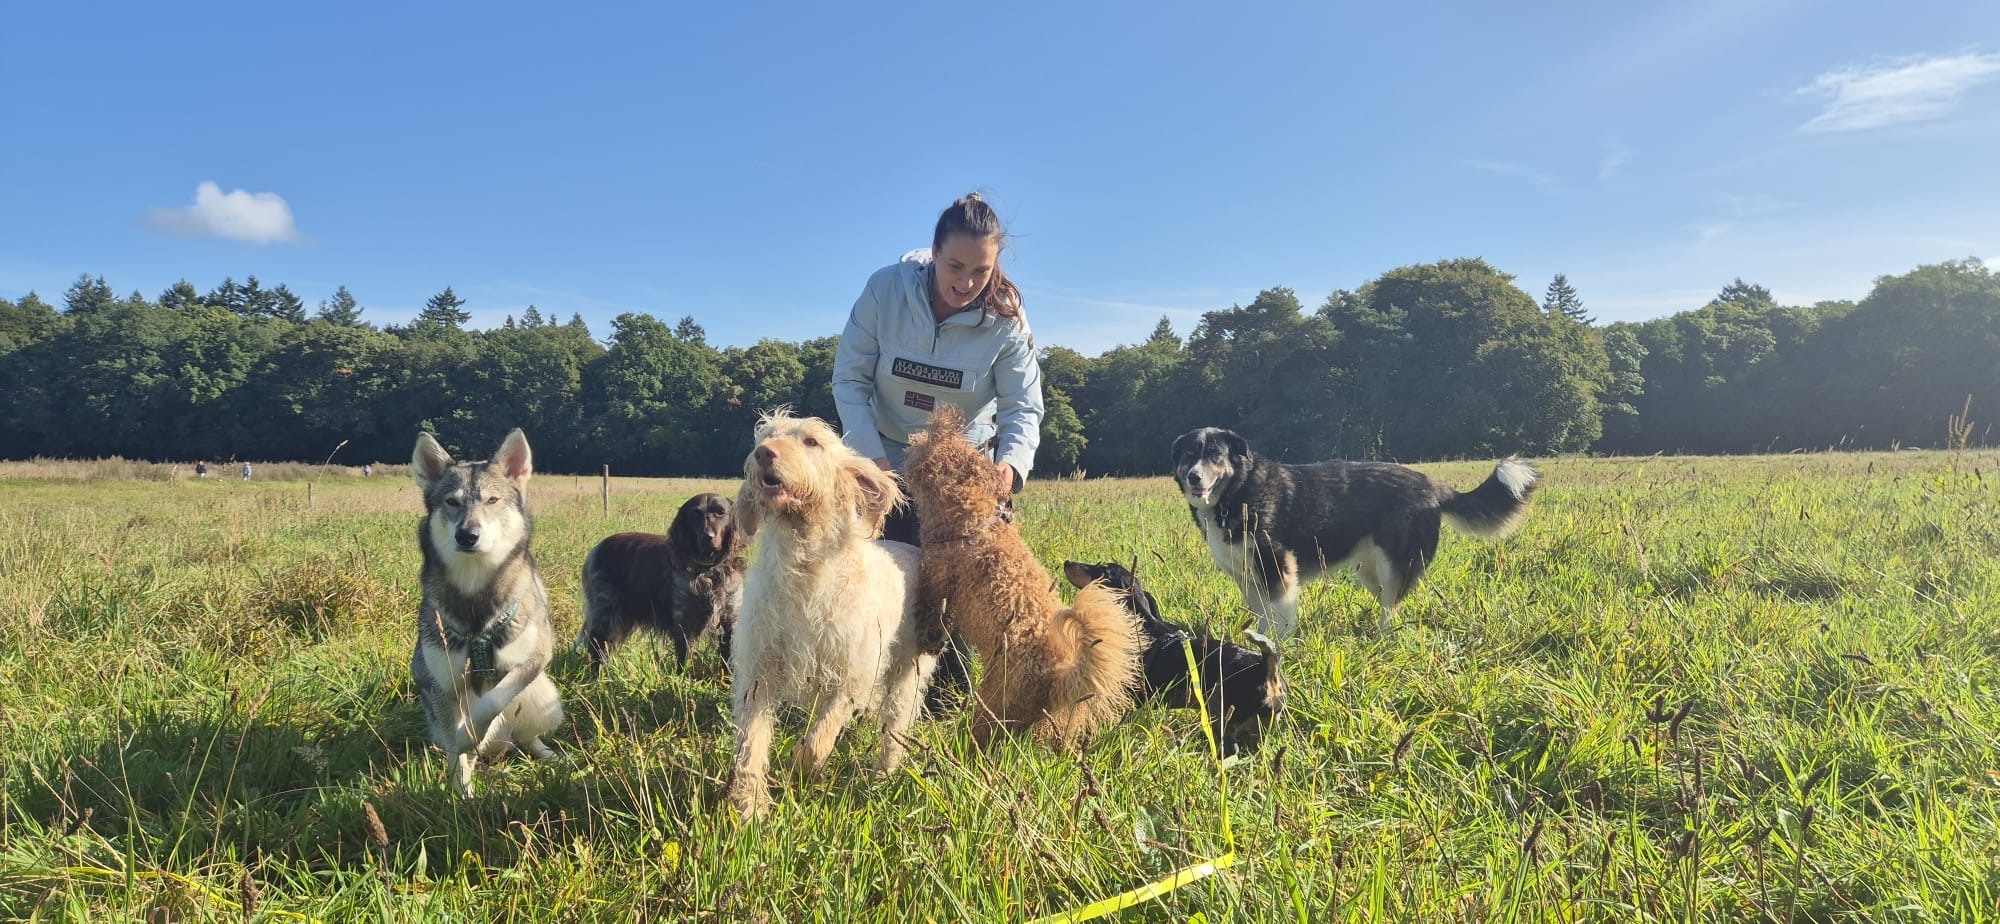
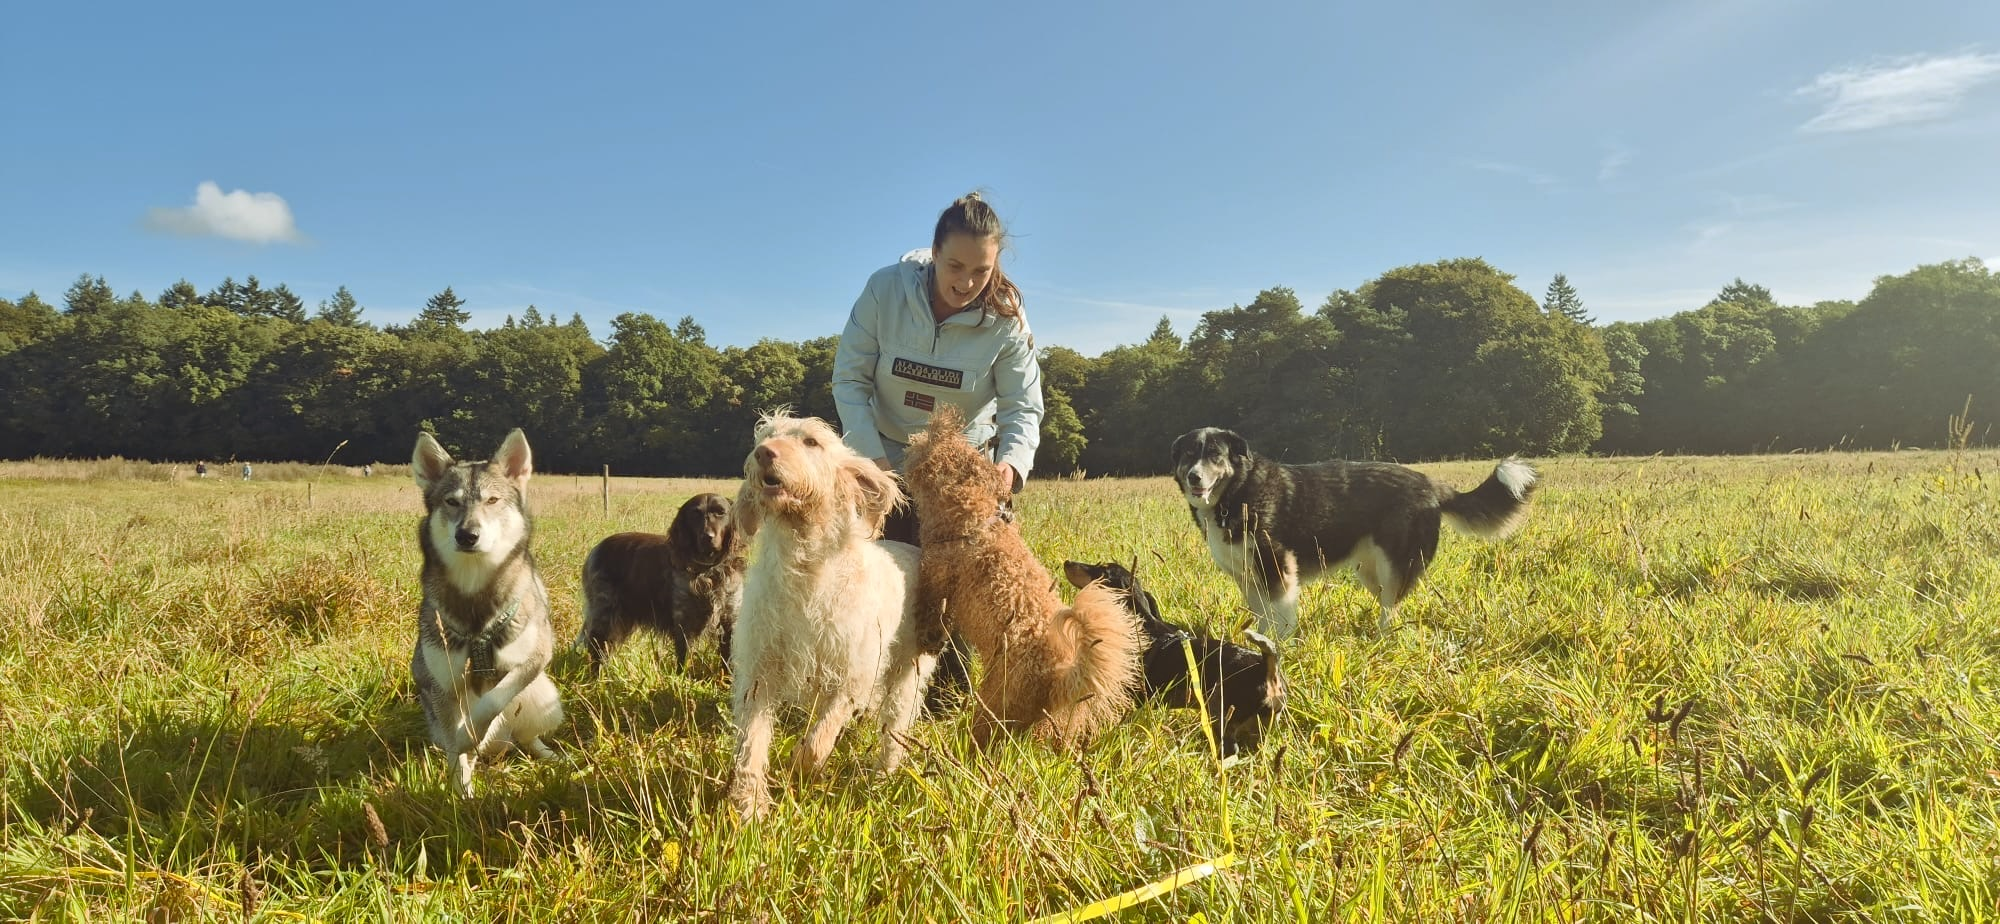
refinements

Changed region(s): [[0.0, 0.2121, 1.0, 1.0], [0.062, 0.2121, 0.124, 0.2727], [0.093, 0.5758, 0.124, 0.6061]]

diff --git a/src/app/[locale]/page.tsx b/src/app/[locale]/page.tsx
@@ -118,7 +118,8 @@ export default function Home() {
                 <div className={Styles.serviceSectionImageRow}>
                     <div className={Styles.serviceSectionImage}>
                         <Image objectFit={'cover'} fill={true}
-                               src={'/images/opvang/opvang-1.jpeg'}
+                               objectPosition={'50% 40%'}
+                               src={'/images/opvang/opvang-1.jpg'}
                                alt={t('opvang.imageAlt.1')}/>
                     </div>
                     <div className={Styles.serviceSectionImage}>
